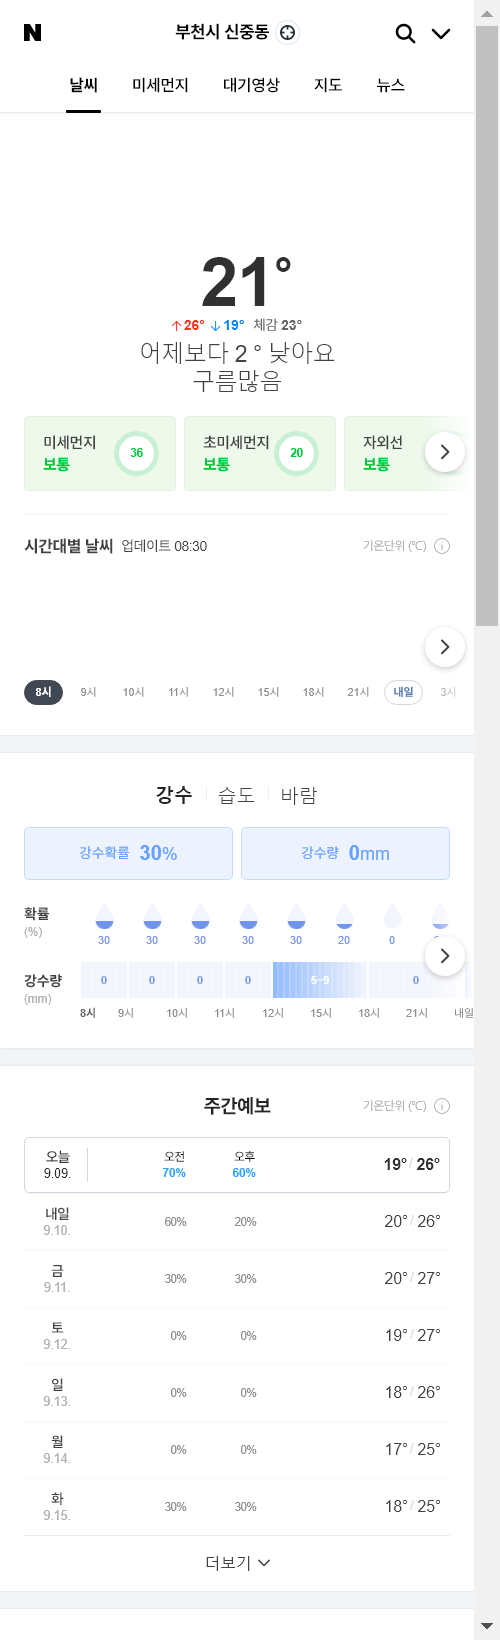
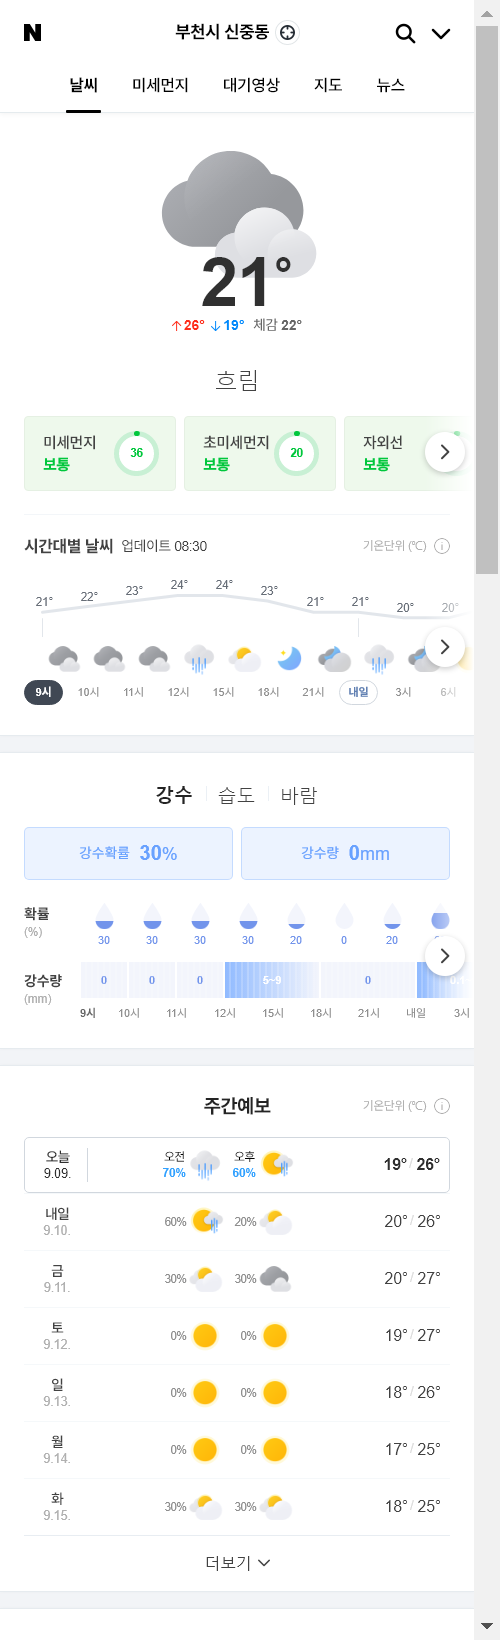
update result

diff --git a/README.md b/README.md
@@ -1,16 +1,11 @@
-##  2020-09-09 08:55:55   수요일 
-##### 날씨   -   어제보다 2 ° 낮아요
+##  2020-09-09 09:03:46   수요일 
+##### 날씨   -   흐림
 <center><img src="../img/naver_weather_week.png"></center>
 ----
 ----
-      ##### 지수
-| 종목 | 현재가 | 등락(전일비) | BUY | SELL |   |
-|-|-|-|-|-|-|
-|코스피|2,401.91|-0.00  /  -0.00%|2,000|3,000|0|
-|코스닥|878.29|-0.00  /  -0.00%|0|0|0|
 
 ----
-      ##### 세계
+##### 세계
 | 종목 | 현재가 | 등락(전일비) | BUY | SELL |   |
 |-|-|-|-|-|-|
 |다우|27,500.89|-632.42  /  -2.25%|0|0|0|
@@ -20,35 +15,35 @@
 |인도|38,365.35|-51.88  /  -0.14%|0|0|0|
 
 ----
-      ##### 시장
+##### 시장
 | 종목 | 현재가 | 등락(전일비) | BUY | SELL |   |
 |-|-|-|-|-|-|
-|USD|1,19|+1.00  /  +0.08%|1,150|0|1|
+|USD|1,19|+1.80  /  +0.15%|1,150|0|1|
 |WTI|36.76|-3.01  /  -7.56%|29.0|0|0|
 |GOLD|1,93|+9.10  /  +0.47%|0|0|0|
 
 ----
-      ##### 주가
+##### 주가
 | 종목 | 현재가 | 등락(전일비) | 평단 | 희망가 | |
 |-|-|-|-|-|-|
-|한국전력|20,500|=0  /  =0.00%|25,776|30,000|0|
-|삼성엔지니어링|11,350|=0  /  =0.00%|11,350|12,000|0|
-|CJ CGV|23,500|=0  /  =0.00%|34,961|36,000|0|
-|아모레퍼시픽|170,000|=0  /  =0.00%|235,834|240,000|0|
-|한화|20,500|=0  /  =0.00%|25,630|0|0|
-|NAVER|11,350|=0  /  =0.00%|148,046|400,000|0|
-|LG화학우|23,500|=0  /  =0.00%|203,474|500,000|0|
-|스튜디오드래곤|170,000|=0  /  =0.00%|82,300|100,000|0|
-|글로벌럭셔리|170,000|=0  /  =0.00%|9,630|15,000|0|
-|QV미국IT|170,000|=0  /  =0.00%|24,100|30,000|0|
-|호텔신라|20,500|=0  /  =0.00%|73,008|100,000|0|
-|S-Oil|11,350|=0  /  =0.00%|62,996|100,000|0|
-|LG전자|23,500|=0  /  =0.00%|82,255|100,000|0|
-|지역난방공사|170,000|=0  /  =0.00%|34,200|60,000|0|
-|한화|20,500|=0  /  =0.00%|25,288|0|0|
-|삼성전자우|11,350|=0  /  =0.00%|48,370|0|0|
-|한화에어로스페이스|23,500|=0  /  =0.00%|25,779|0|0|
-|한국금융지주|170,000|=0  /  =0.00%|62,123|0|0|
-|글로벌럭셔리|170,000|=0  /  =0.00%|12,850|0|1|
+|한국전력|20,300|-200  /  -0.98%|25,776|30,000|0|
+|삼성엔지니어링|11,250|-100  /  -0.88%|11,350|12,000|0|
+|CJ CGV|23,300|-200  /  -0.85%|34,961|36,000|0|
+|아모레퍼시픽|167,500|-2,500  /  -1.47%|235,834|240,000|0|
+|한화|20,300|-200  /  -0.98%|25,630|0|0|
+|NAVER|11,250|-100  /  -0.88%|148,046|400,000|0|
+|LG화학우|23,300|-200  /  -0.85%|203,474|500,000|0|
+|스튜디오드래곤|167,500|-2,500  /  -1.47%|82,300|100,000|0|
+|글로벌럭셔리|167,500|-2,500  /  -1.47%|9,630|15,000|0|
+|QV미국IT|167,500|-2,500  /  -1.47%|24,100|30,000|0|
+|호텔신라|20,300|-200  /  -0.98%|73,008|100,000|0|
+|S-Oil|11,250|-100  /  -0.88%|62,996|100,000|0|
+|LG전자|23,200|-300  /  -1.28%|82,255|100,000|0|
+|지역난방공사|167,500|-2,500  /  -1.47%|34,200|60,000|0|
+|한화|20,300|-200  /  -0.98%|25,288|0|0|
+|삼성전자우|11,250|-100  /  -0.88%|48,370|0|0|
+|한화에어로스페이스|23,200|-300  /  -1.28%|25,779|0|0|
+|한국금융지주|167,500|-2,500  /  -1.47%|62,123|0|0|
+|글로벌럭셔리|167,500|-2,500  /  -1.47%|12,850|0|1|
 
 ----
